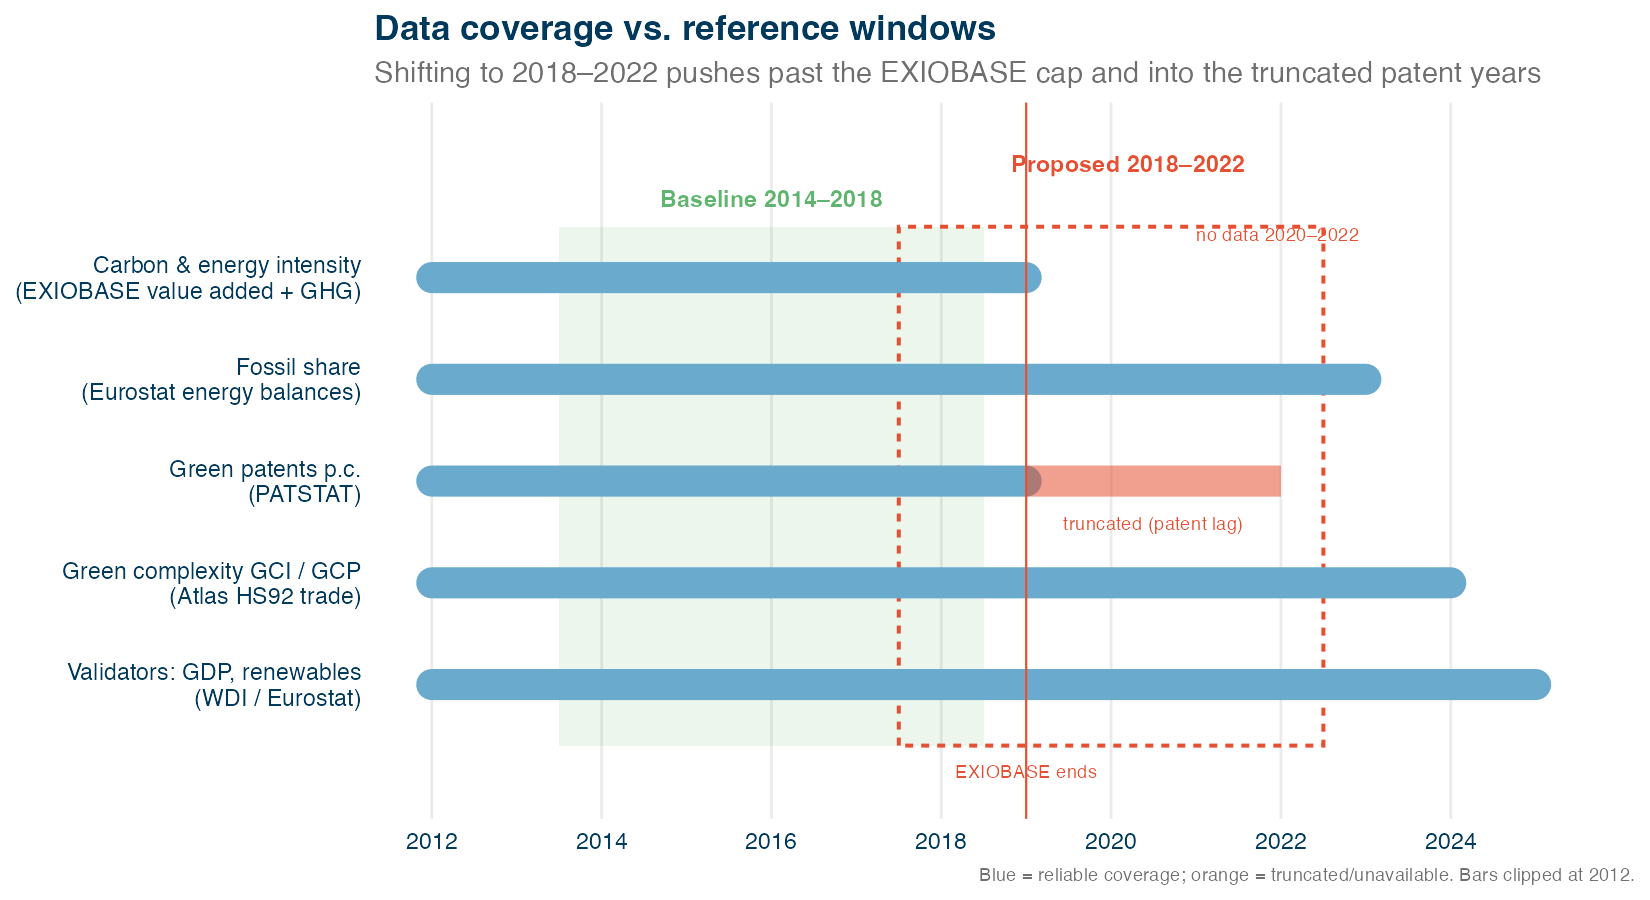
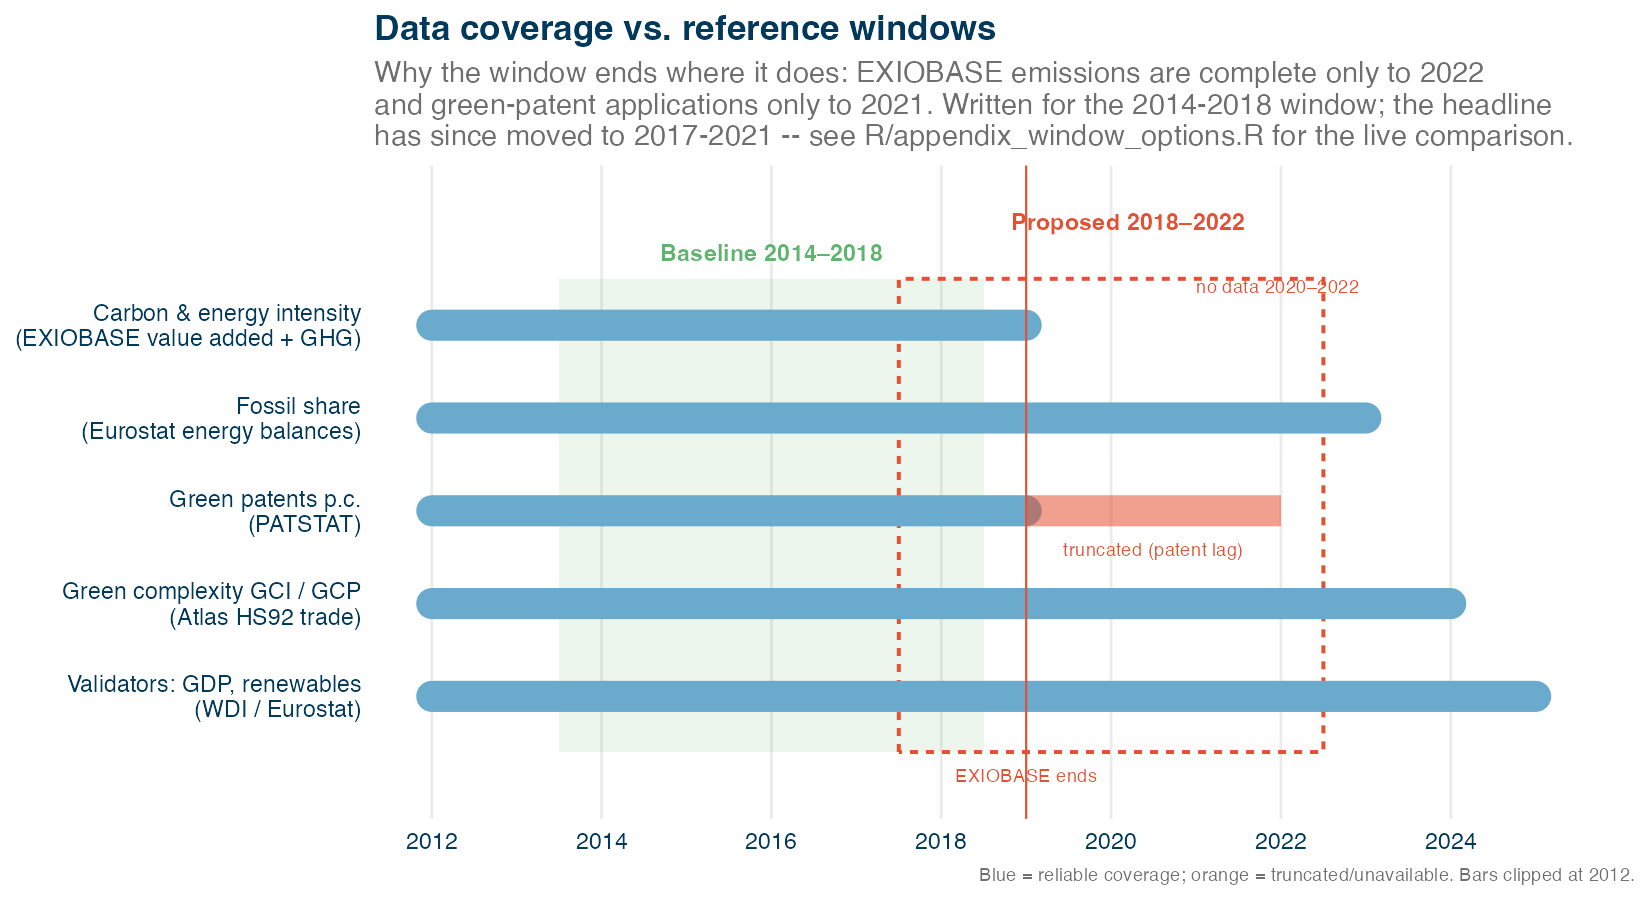
Sweep for the same defect class; fix three more, one of which reached the pack
After finding two scripts that produced plausible-but-wrong output, every
script was checked for the same failure modes: wrong scoring baseline,
hardcoded years reaching a figure, hardcoded patent variable, and outputs
inconsistent with the headline.

FOUND AND FIXED

- appendix_burden_responsibility.R hardcoded "(2014-2018 mean)" in the
  figure's x-axis label while the window is 2017-2021. This one REACHED
  THE PACK: burden_responsibility.png is in writing/figures/, so a
  drafter would have read the wrong window straight off the figure. Now
  built from REF_FIRST_YEAR/REF_LAST_YEAR.

- appendix_pc1_cos2.R asserted in its header that its numbers "match
  04_typology.R" while computing a flat single PCA over all three block
  variables -- the specification abandoned in July. Exactly the defect
  appendix_decomposed_map.R had. It now reports the twin PC1 (what the
  headline uses) alongside the flat version, both labelled.

- appendix_window_coverage.R's subtitle described a window comparison
  that is no longer the live one.

CHECKED AND CLEAN

- appendix_structure_map.R reproduces the headline exactly (11/3/2/11).
- All six quadrant-producing outputs match taxonomy_scores.csv country by
  country.
- eora_crosscheck.csv differs on exactly two countries, Ireland and
  Slovakia. That is CORRECT: it runs on the 2014-2017 window by design,
  and window_options.csv independently reports those same two as the
  difference between that window and the headline.
[…]

diff --git a/writing/verification-log.md b/writing/verification-log.md
@@ -70,6 +70,41 @@ Fixed, and the script now **asserts** that its headline matches
 `taxonomy_scores.csv` before comparing anything, so the baseline cannot drift
 again.
 
+## Third pass: sweep for the same defect class
+
+Having found two scripts producing plausible-but-wrong output, every script was
+checked for the same failure modes: wrong scoring baseline, hardcoded years
+reaching a figure, hardcoded patent variable, and outputs inconsistent with the
+headline.
+
+**Found and fixed**
+
+| script | defect | reached the pack? |
+|---|---|---|
+| `appendix_burden_responsibility.R` | figure axis label hardcoded "(2014-2018 mean)" while the window is 2017–2021 | **yes** — `burden_responsibility.png` is in `figures/` |
+| `appendix_pc1_cos2.R` | header claimed "numbers match 04_typology.R" while computing a flat single PCA per block — the specification abandoned in July | no |
+| `appendix_window_coverage.R` | subtitle described a window comparison that is no longer the live one | no |
+
+**Checked and clean**
+
+- `appendix_structure_map.R` — its "structured" side reproduces the headline
+  exactly (11/3/2/11).
+- All six quadrant-producing outputs match `taxonomy_scores.csv` country by
+  country.
+- `eora_crosscheck.csv` differs on exactly two countries (Ireland, Slovakia) —
+  **correct**, because it runs on the 2014–2017 window by design, and
+  `window_options.csv` independently reports those same two as the difference
+  between that window and the headline.
+- The files in `data/tidy/` older than the window change are all *source inputs*
+  (Eurostat, PATSTAT v1, WDI, the superseded EXIOBASE extract), not stale outputs.
+- No other hardcoded year or patent variable reaches a figure or a table.
+
+**A useful by-product.** Correcting `appendix_pc1_cos2.R` produced a new argument
+for the two-part design that was not previously available: the twin PC1 captures
+83% (intensity) and 65% (complexity) of each country's own variation on average,
+against 65% and 46% under the flat three-variable PCA. Added to
+`results-summary.md` §2.
+
 ## Standing rule
 
 A figure that cannot be reproduced from committed code in the current

diff --git a/writing/evidence/numbers.md b/writing/evidence/numbers.md
@@ -1,6 +1,6 @@
 # Key numbers
 
-*Generated 2026-09-03 from commit 3eb967d by R/build_writing_pack.R.*
+*Generated 2026-09-03 from commit 9e59390 by R/build_writing_pack.R.*
 
 Every figure below is computed from the committed pipeline output. **Use these
 values verbatim; do not recompute, round differently, or estimate.** If a number
@@ -99,7 +99,7 @@ Spearman rank correlation vs the headline; quadrant changes out of 27.
 ## Files in this pack
 
 **Tables** (`evidence/`): 
-`scores_by_country.csv`, `indicators_by_country.csv`, `quadrant_classification.csv`, `quadrant_profiles.csv`, `robustness_specs.csv`, `window_options.csv`, `validation_external.csv`, `validation_group_means.csv`, `burden_responsibility.csv`, `offshoring_origins.csv`, `development_model_gradient.csv`, `patent_options.csv`, `country_profiles.csv`, `energy_by_sector.csv`, `eora_crosscheck.csv`, `patent_offices.csv`, `capability_convergence.csv`, `validation_group_tests.csv`, `quadrant_stability.csv`, `group_composition.csv`, `quadrant_coherence.csv`, `validation_pairwise_tests.csv`
+`scores_by_country.csv`, `indicators_by_country.csv`, `quadrant_classification.csv`, `quadrant_profiles.csv`, `robustness_specs.csv`, `window_options.csv`, `validation_external.csv`, `validation_group_means.csv`, `burden_responsibility.csv`, `offshoring_origins.csv`, `development_model_gradient.csv`, `patent_options.csv`, `country_profiles.csv`, `energy_by_sector.csv`, `eora_crosscheck.csv`, `patent_offices.csv`, `capability_convergence.csv`, `validation_group_tests.csv`, `quadrant_stability.csv`, `group_composition.csv`, `quadrant_coherence.csv`, `validation_pairwise_tests.csv`, `appendix_pc1_cos2.csv`
 
 **Figures** (`figures/`): 
 `typology_map.png`, `quadrant_profiles.png`, `validation_scores_by_group.png`, `validation_alluvial.png`, `burden_responsibility.png`, `offshoring_origins.png`, `window_options.png`, `patent_options.png`, `appendix_structure_map.png`, `country_profiles.png`, `eora_crosscheck.png`, `patent_offices.png`, `capability_convergence.png`, `quadrant_stability.png`, `group_composition.png`

diff --git a/writing/results-summary.md b/writing/results-summary.md
@@ -61,6 +61,13 @@ The twins are near-orthogonal to their standalone (intensity↔fossil −0.01,
 complexity↔patents 0.19), confirming these are genuinely two dimensions per block
 rather than double counting.
 
+A further argument for the two-part construction, from
+`evidence/appendix_pc1_cos2.csv`: the twin PC1 represents countries far better
+than a flat PCA does. Mean per-country cos² — the share of a country's own
+variation the score captures — is **83%** for the intensity twin and **65%** for
+the complexity twin, against **65%** and **46%** under the flat three-variable
+PCA. The flat version discards about a third more of each country's position.
+
 ## 3. Data
 
 | input | source | note |
